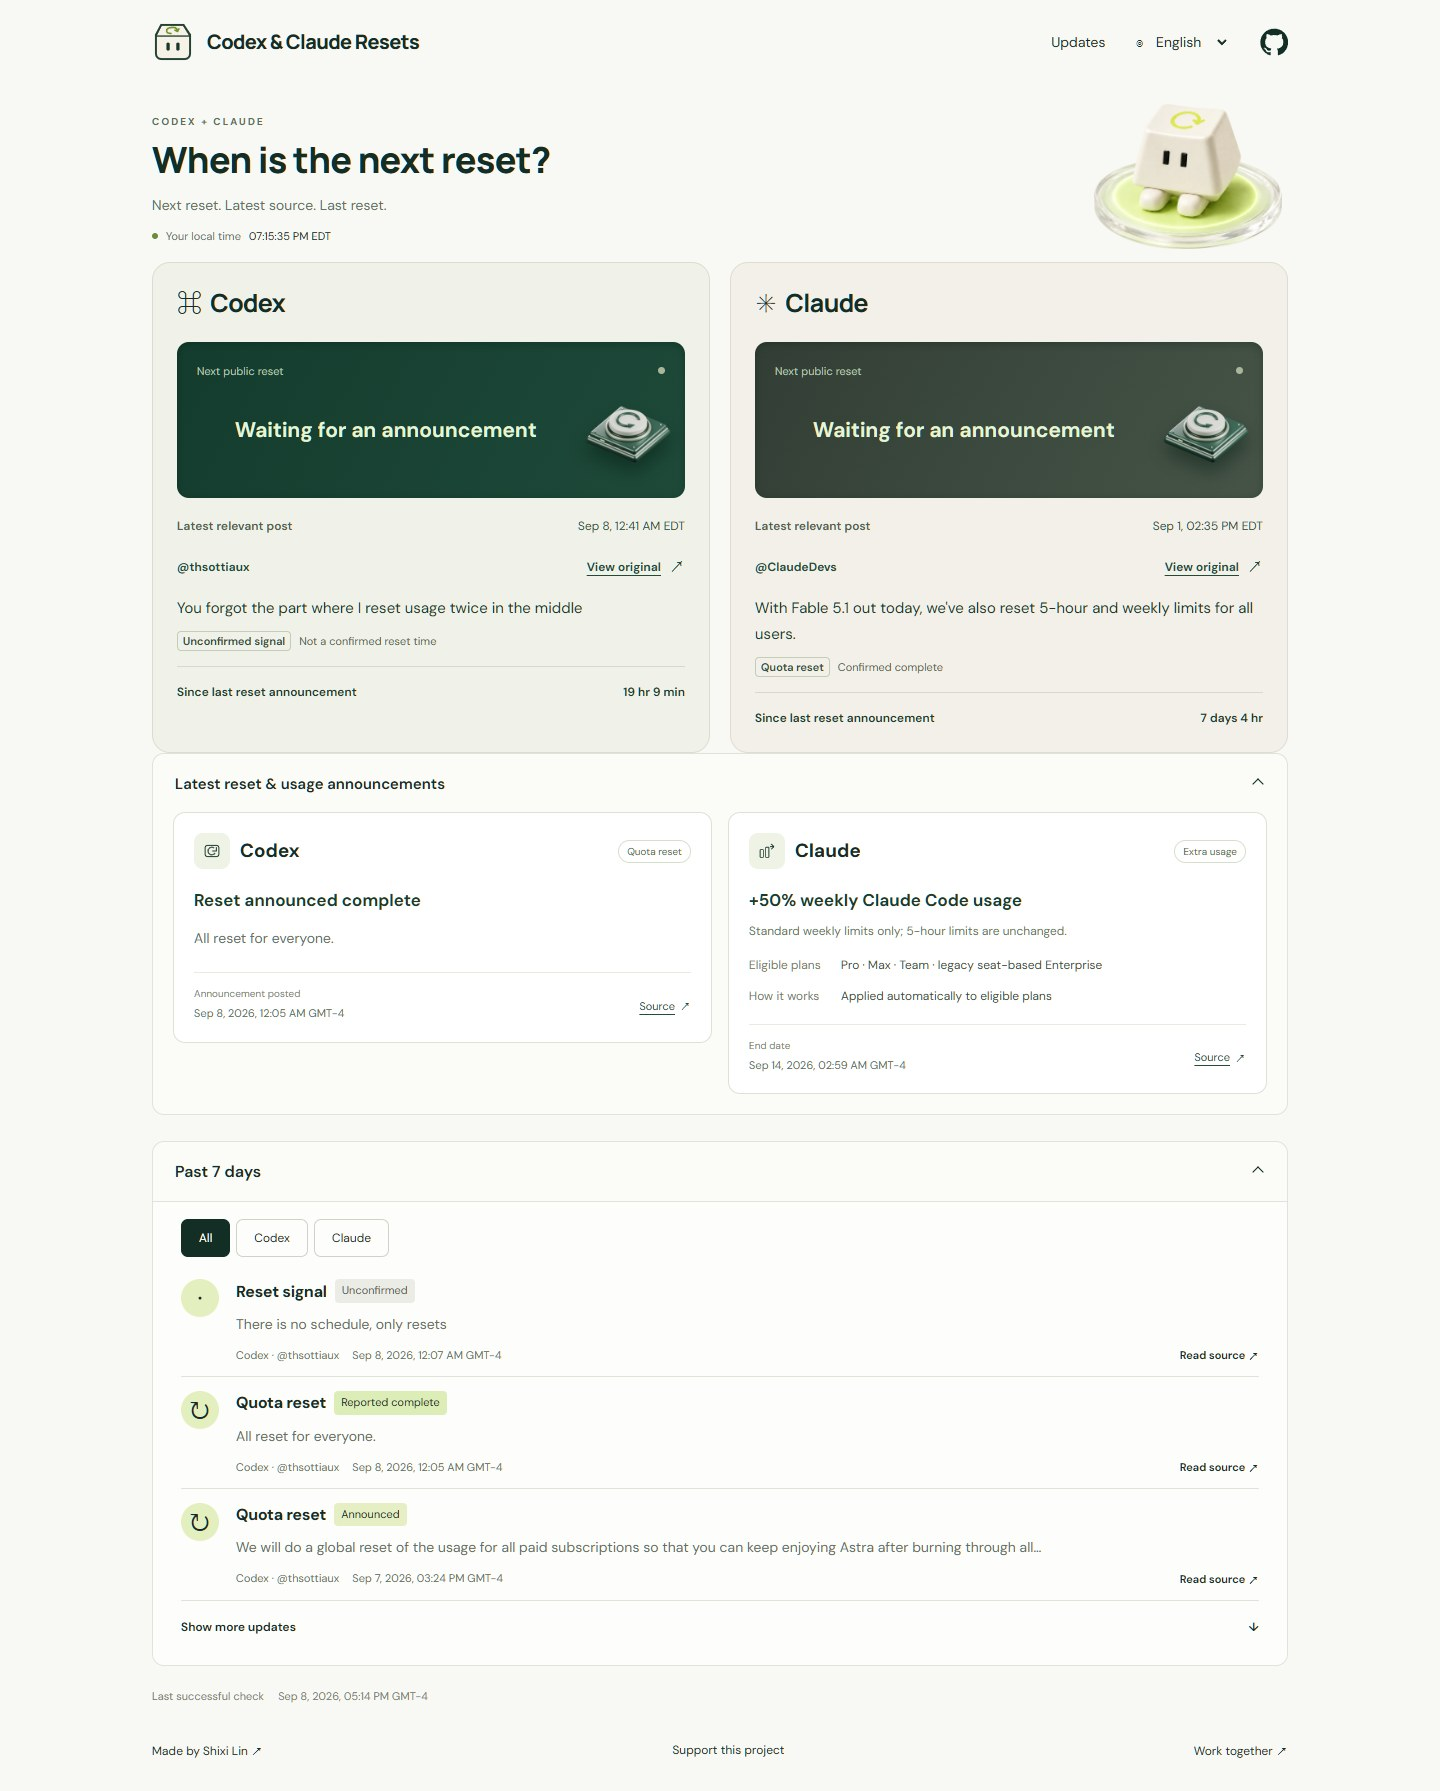
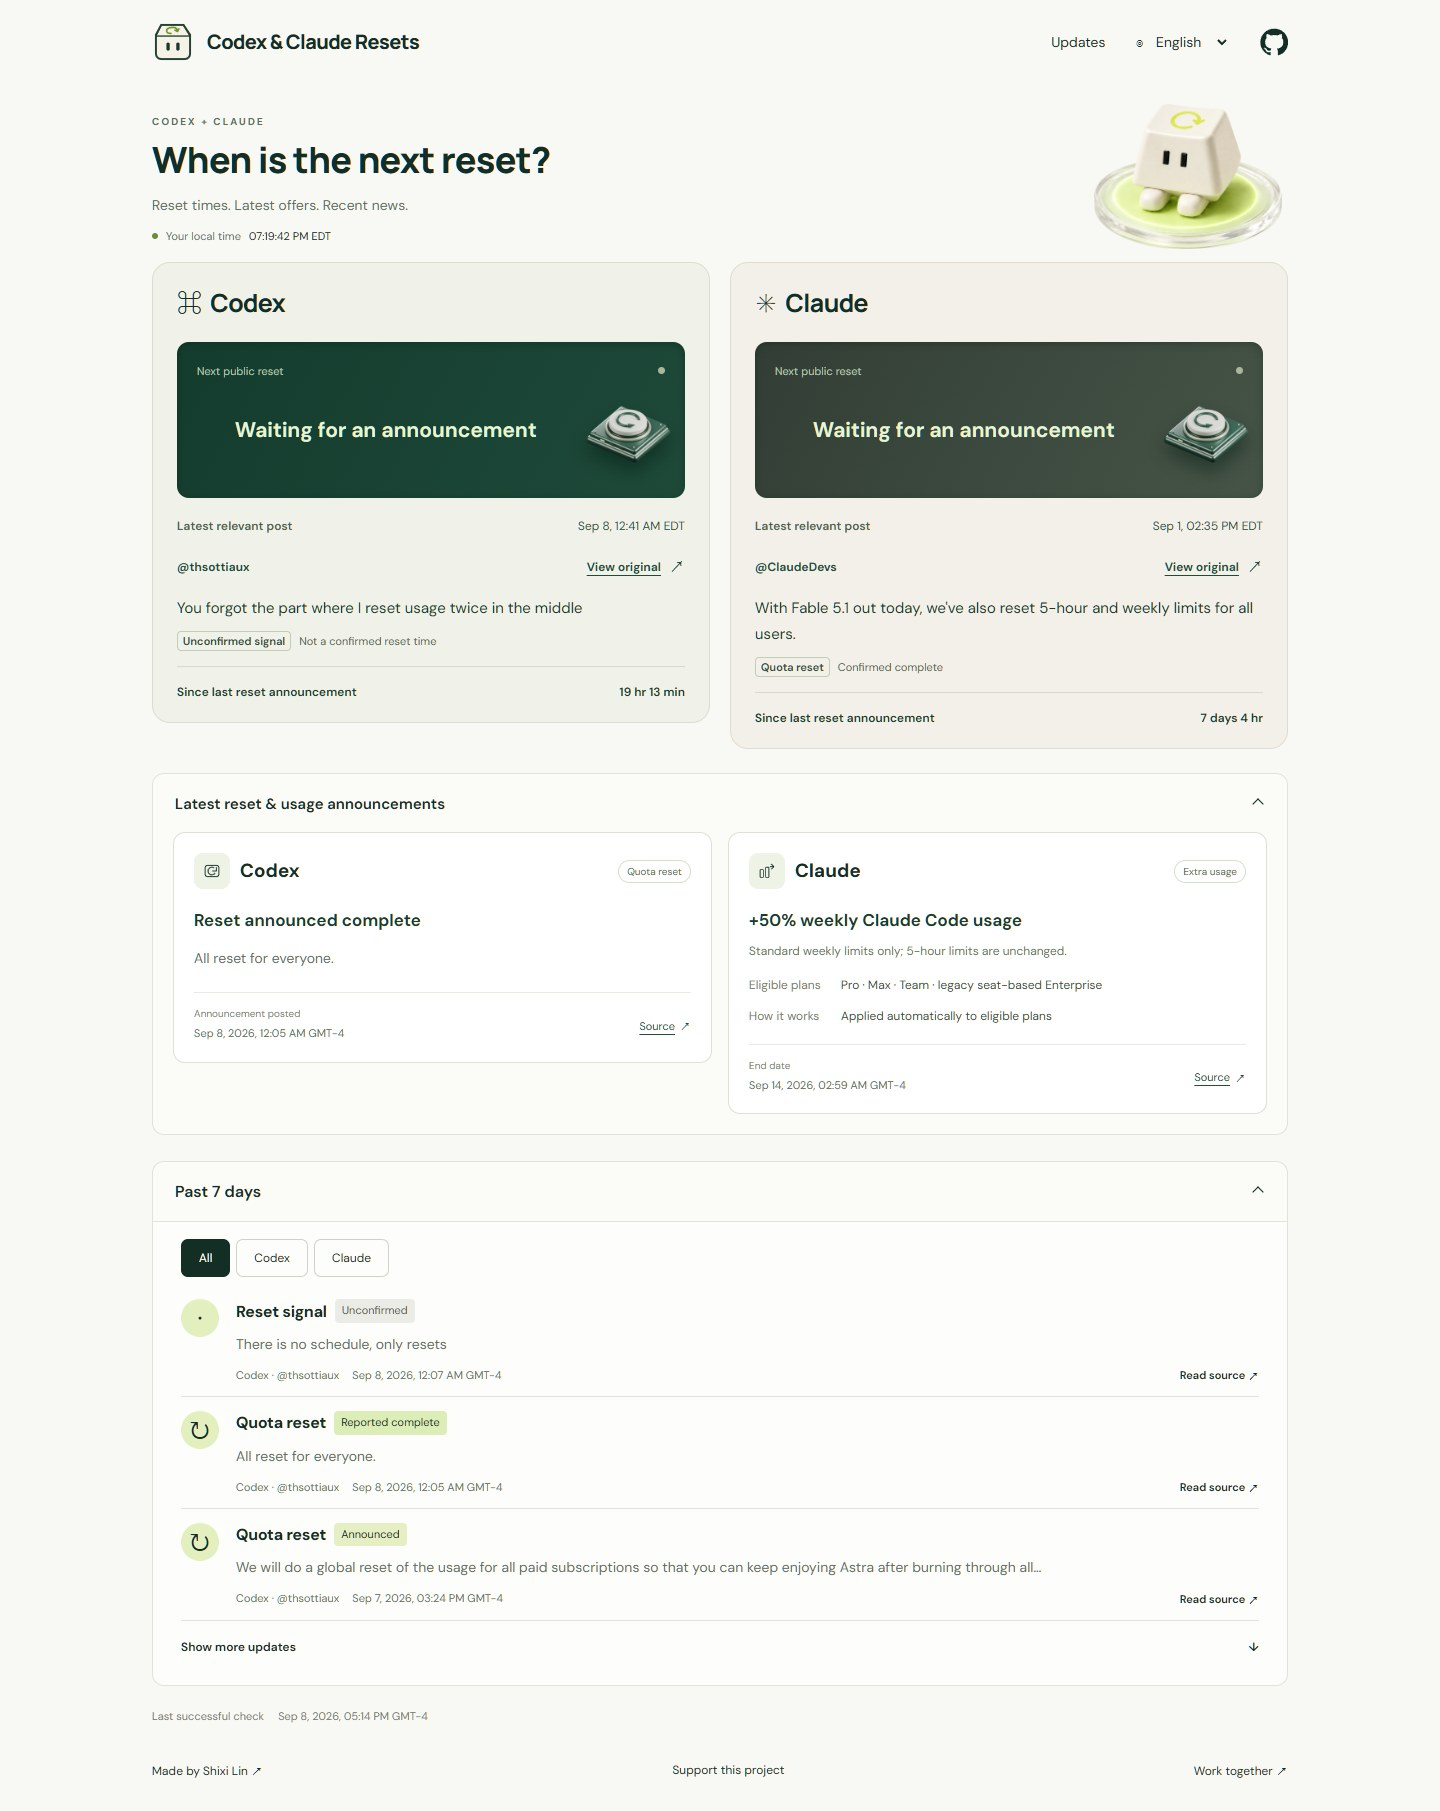
Fix card spacing across devices and refresh introduction copy

diff --git a/src/clocks.css b/src/clocks.css
@@ -35,3 +35,6 @@
 .offer-source,.offer-source:hover{ text-decoration:none }.offer-source-label{text-decoration:underline;text-underline-offset:4px}
 
 .tweet-source,.tweet-source:hover,.source-action{text-decoration:none}.source-action-label{text-decoration:underline;text-underline-offset:4px}.source-arrow{font-size:16px;font-weight:500;text-decoration:none}.live-controls:not(:has([data-live-status]:not([hidden]))){display:none}
+
+/* Cards follow their own content; sections keep independent spacing. */
+.platform-grid{align-items:start}.reset-overview{padding-bottom:24px}.platform-card{padding-bottom:20px!important}.last-reset>span:first-child{flex:1;min-width:0}.last-reset>[data-reset-elapsed]{flex:0 0 auto;text-align:end}@media(max-width:650px){.reset-overview{padding-bottom:20px}.platform-card{padding-bottom:18px!important}}
